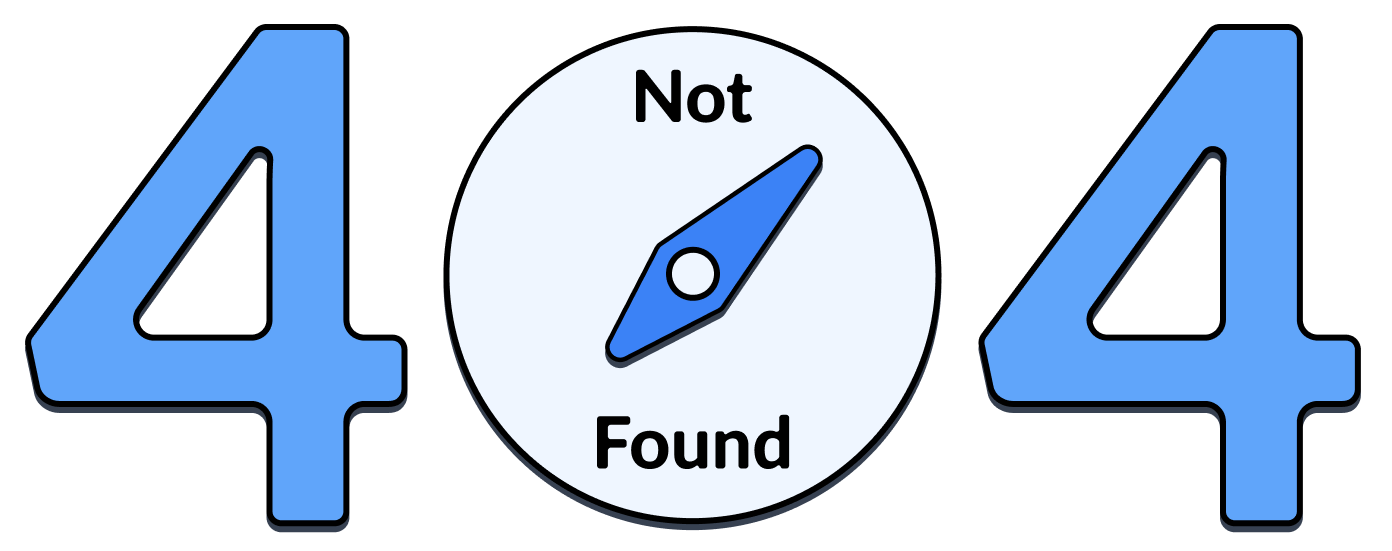
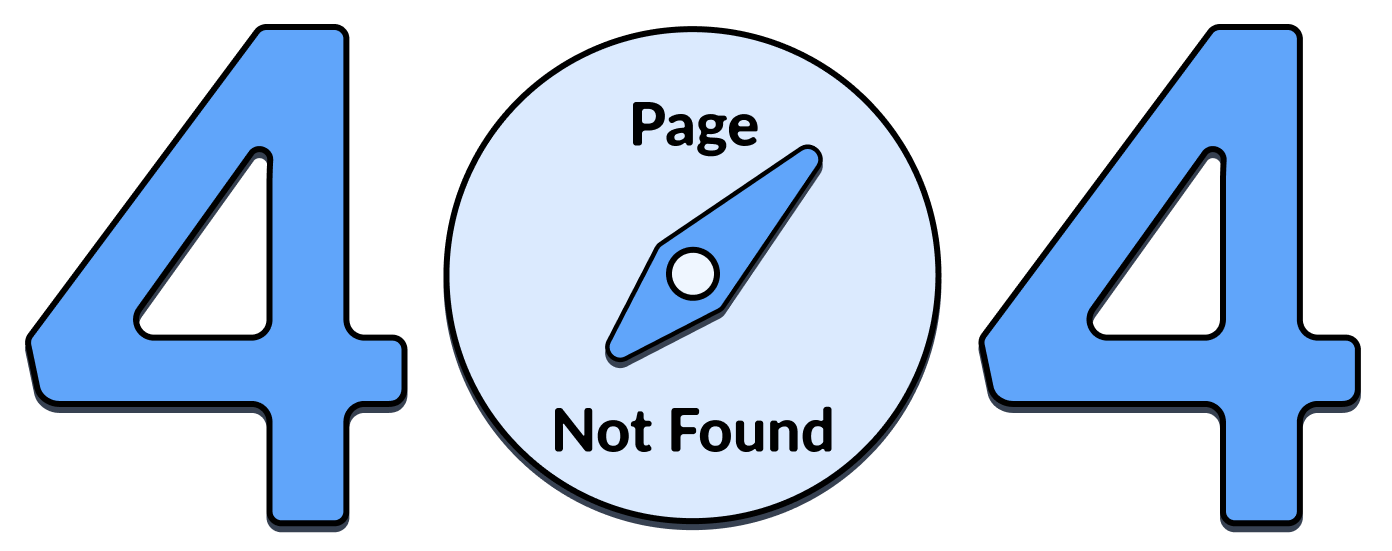
Revised 404 Page
-button hover revision
-image update

Changed region(s): [[0.4325, 0.2777, 0.5869, 0.6479], [0.4016, 0.7405, 0.6178, 0.8639], [0.4325, 0.1234, 0.556, 0.2777]]

diff --git a/website/src/pages/NotFoundPage.tsx b/website/src/pages/NotFoundPage.tsx
@@ -10,12 +10,12 @@ export function NotFoundPage() {
       <img src={notFoundImage} alt='404 Page Not found with compass' className='w-auto h-[12rem] rounded-lg' />
       <h3>Uh oh, this page has gone on an adventure.</h3>
 
-      <div
-        className='w-18 px-2 py-1 bg-blue-400 cursor-pointer text-center rounded-lg text-gray-50 border-[2px] border-gray-700 shadow-lineStyleDark'
+      <span
+        className='w-18 px-5 py-2 bg-blue-600 cursor-pointer text-center rounded-lg text-neutral-100 border-[2px] line-border hover:bg-blue-100 hover:text-neutral-800 shadow-lineStyleLight'
         onClick={() => navigate('/', { replace: true })}
       >
-        Return to Home Page
-      </div>
+        <strong>Return to Home Page</strong>
+      </span>
     </div>
   )
 }
